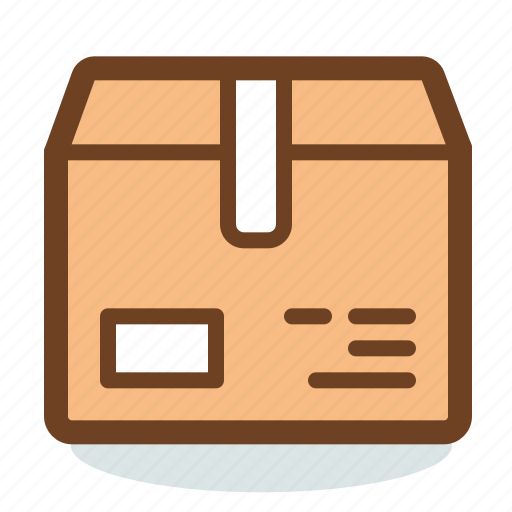
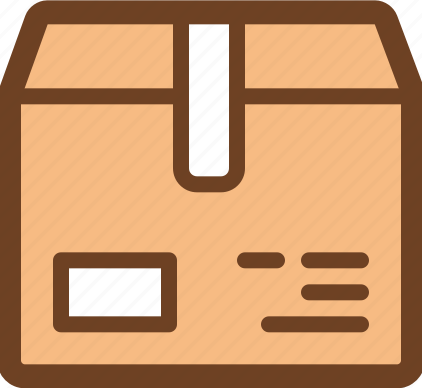
Place some temporary belts and a background

diff --git a/conveyorGame/js/sceneMain.js b/conveyorGame/js/sceneMain.js
@@ -6,14 +6,18 @@ class SceneMain extends Phaser.Scene {
     {
         //load images or sounds
         this.load.image("box", "images/box.png")
+        this.load.image("background", "images/background.png")
+        this.load.image("belt1", "images/l2r1.png")
 
        
     }
     create()
     {
         //define objects
-        //this.box=this.height.image(10)
-        this.box=this.add.image(0,game.config.height/2, "box")
+        this.background = this.add.image(550,20, "background").setScale(.4)
+        this.belt = this.add.image(game.config.width/4,(game.config.height/2)+20, "belt1").setScale(.35)
+        this.belt = this.add.image((game.config.width/4)+80,(game.config.height/2)+20, "belt1").setScale(.35)
+        this.box=this.add.image(game.config.width/4,game.config.height/2, "box").setScale(.2)
 
     }
     update(){
